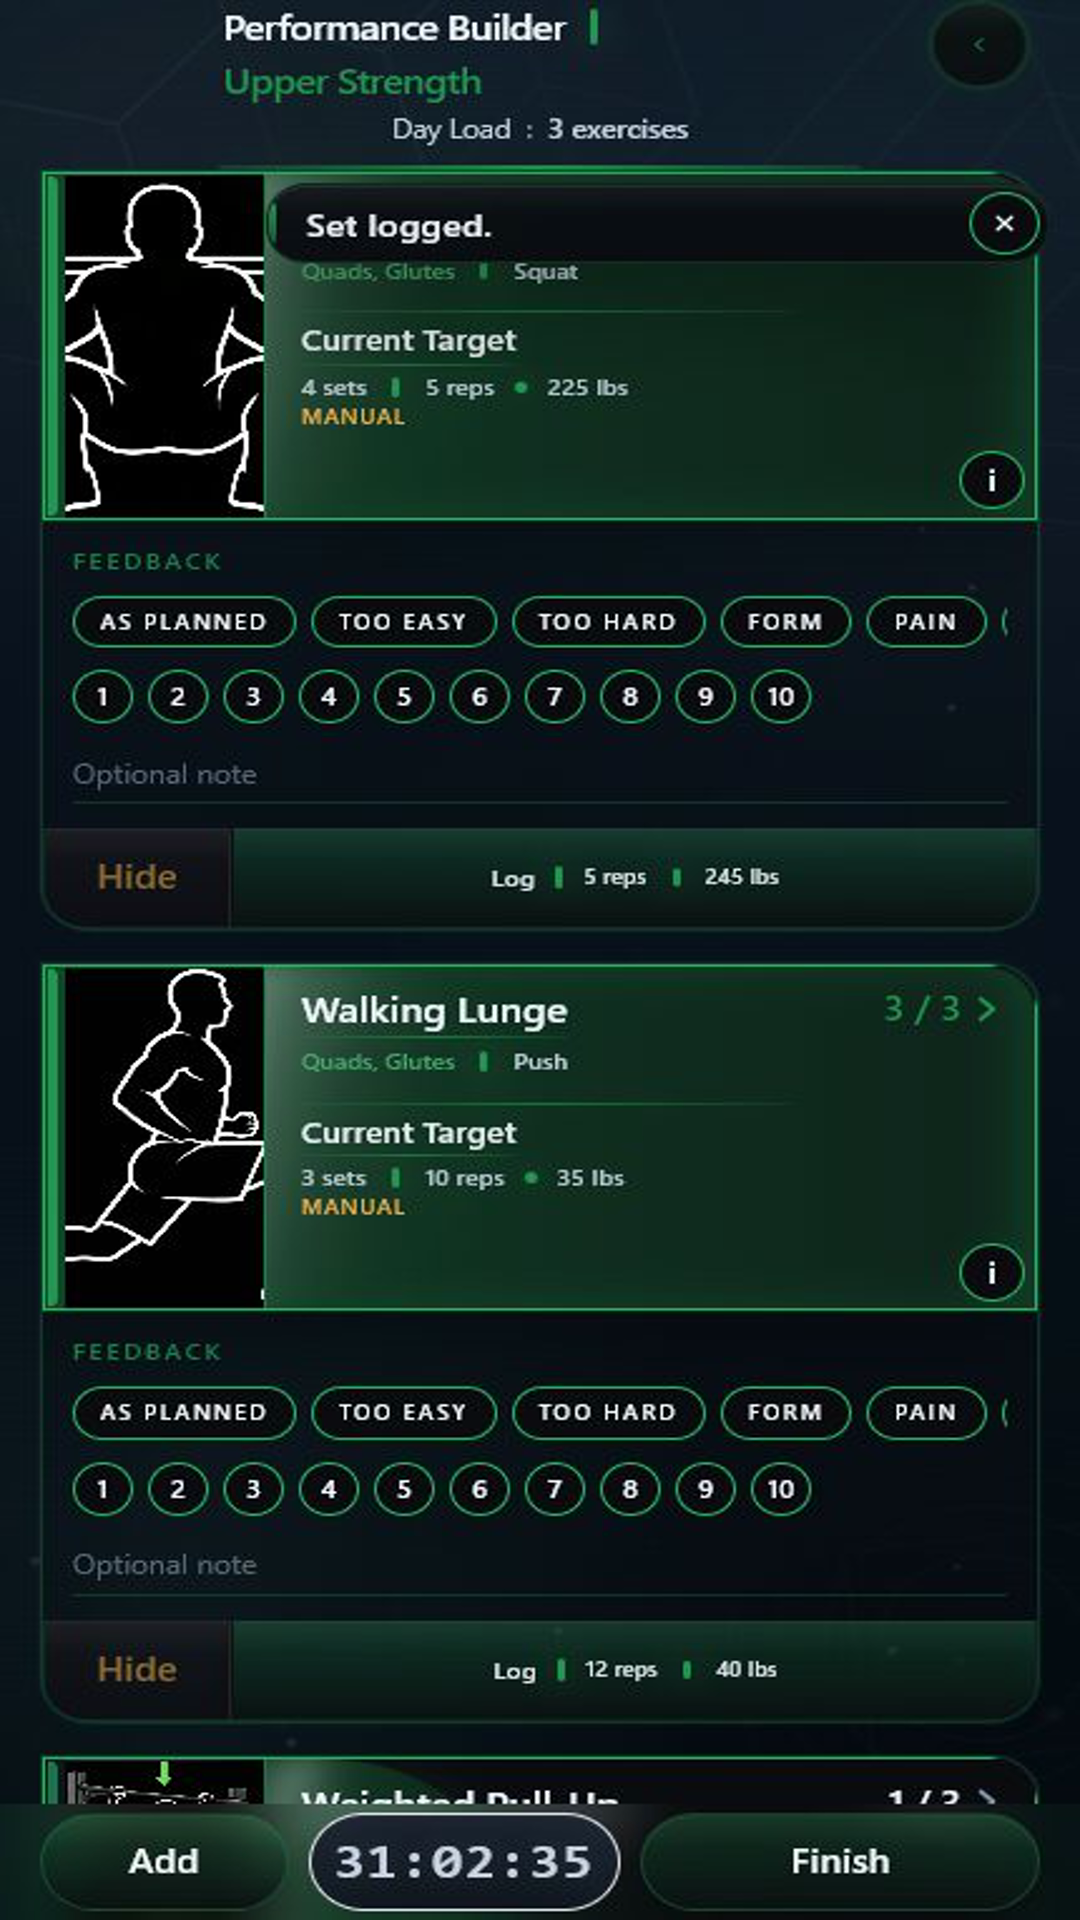
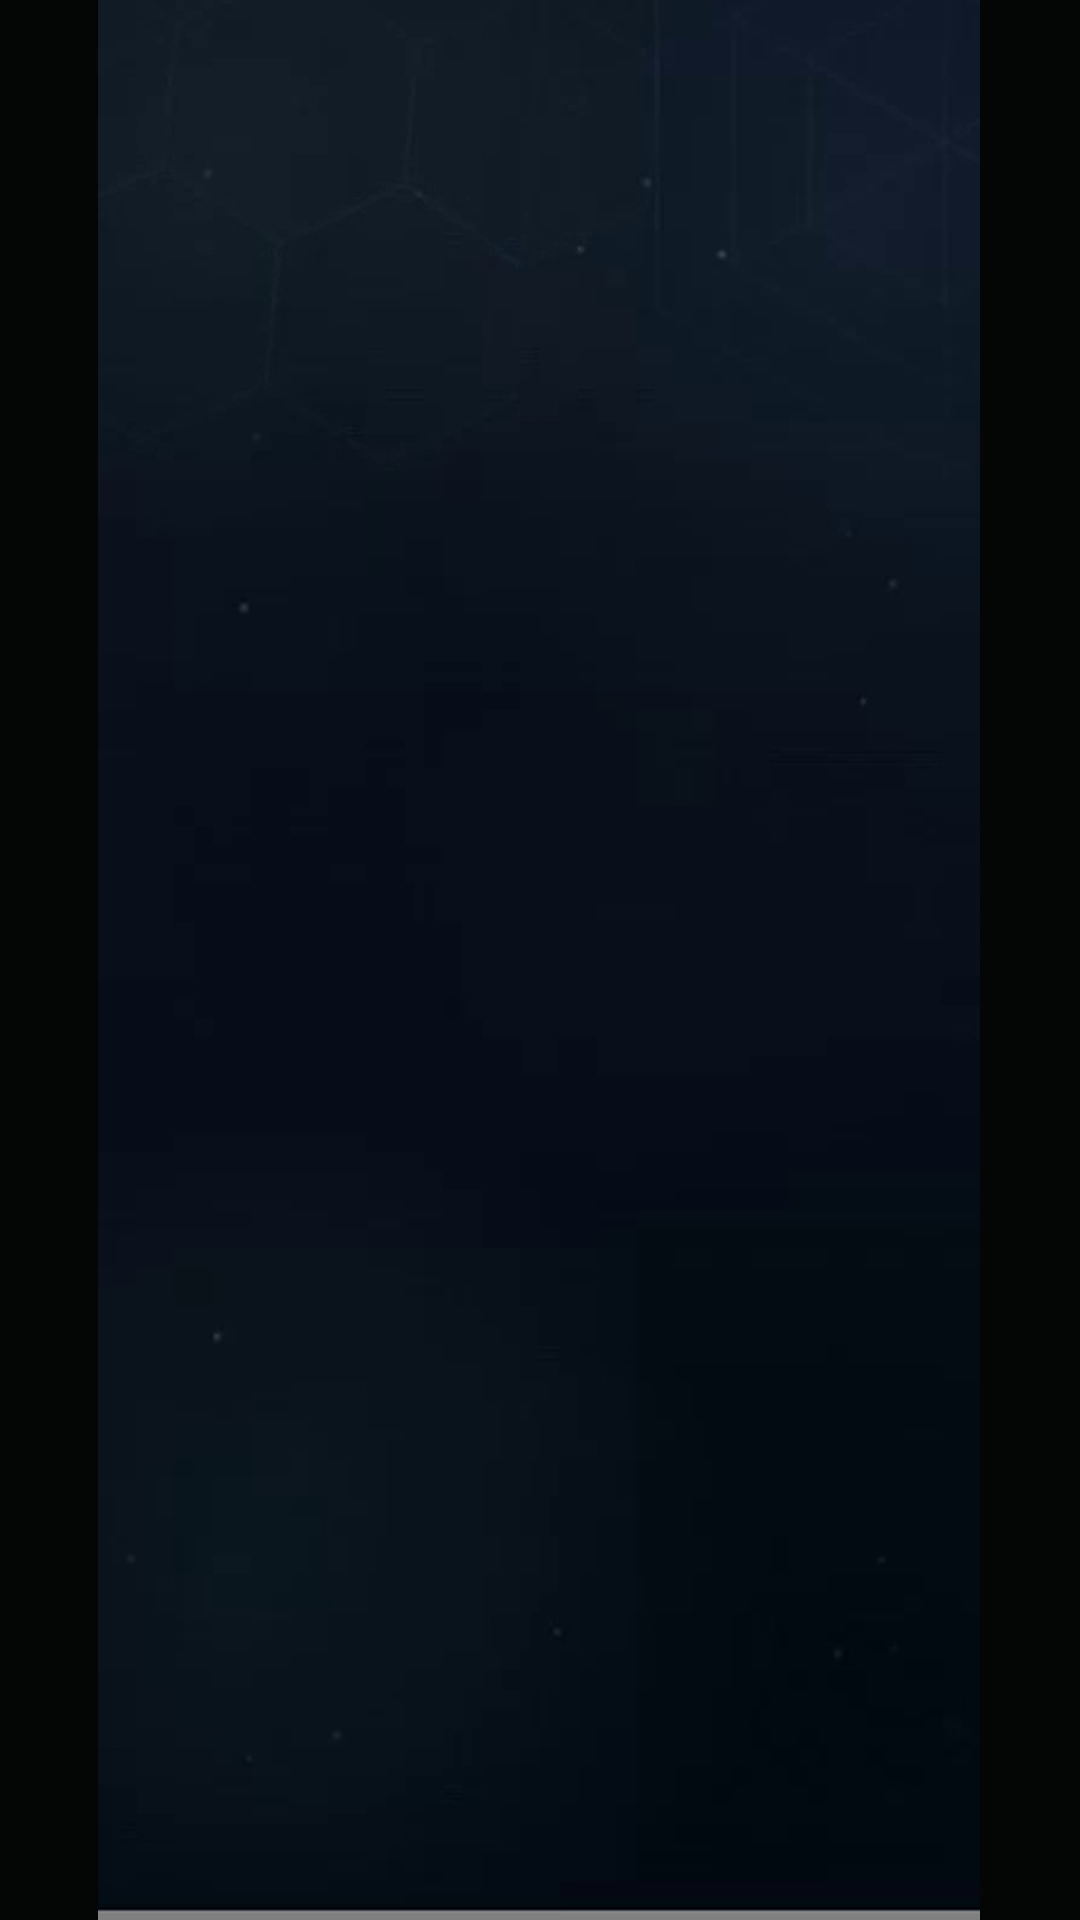
media: add interaction trailer masters

diff --git a/src/data/apps.ts b/src/data/apps.ts
@@ -71,20 +71,20 @@ export const apps: CatalogApp[] = [
       to: "#5C725D",
     },
     trailer: {
-      durationLabel: "0:28",
+      durationLabel: "0:20",
       description:
-        "A live production walkthrough of planning, resuming, logging, and reviewing a training session.",
+        "A branded live production walkthrough: navigate the plan, review history, resume a session, and open the next exercise.",
       captionsSrc: "/apps/fitness/trailer-captions.vtt",
       video: {
         src: "/apps/fitness/trailer.mp4",
[2 lines of base64/hex data omitted]
         source:
-          "July 18, 2026 live production capture using the dedicated sanitized Fitness showcase account",
+          "July 19, 2026 live production walkthrough using the dedicated sanitized Fitness QA account",
       },
       poster: {
         src: "/apps/fitness/trailer-poster.png",
[1 lines of base64/hex data omitted]
-        source: "July 18, 2026 live production capture poster derivative",
[1 lines of base64/hex data omitted]
+        source: "July 19, 2026 live production walkthrough poster derivative",
       },
     },
   },
@@ -119,20 +119,20 @@ export const apps: CatalogApp[] = [
       to: "#A4B5A3",
     },
     trailer: {
-      durationLabel: "0:35",
+      durationLabel: "0:14",
       description:
-        "Live production footage moves from an ambient watch run into active play, pause, and resume.",
+        "A branded live production walkthrough: enter the maze, move through a run, pause, and return to play.",
       captionsSrc: "/apps/mazer/trailer-captions.vtt",
       video: {
         src: "/apps/mazer/trailer.mp4",
[2 lines of base64/hex data omitted]
         source:
-          "Socials OS MAZER-PRODUCTION-WATCH-R2 plus MAZER-PRODUCTION-PLAY-R3 live production capture on July 18, 2026",
+          "July 19, 2026 live production guest walkthrough with visible keyboard and cursor interaction",
       },
       poster: {
         src: "/apps/mazer/trailer-poster.png",
[1 lines of base64/hex data omitted]
-        source: "Poster frame extracted from the live Mazer production trailer at 00:18.200",
[1 lines of base64/hex data omitted]
+        source: "July 19, 2026 live Mazer production walkthrough poster derivative",
       },
     },
   },

diff --git a/src/app/globals.css b/src/app/globals.css
@@ -2454,13 +2454,6 @@ a.discovery-link:hover {
     border-radius: 23px;
   }
 
-  .app-screenshot-list {
-    grid-auto-columns: minmax(15rem, 82vw);
-  }
-
-  .app-screenshot img {
-    height: min(60vh, 34rem);
-  }
 }
 
 @media (prefers-reduced-motion: reduce) {

diff --git a/docs/receipts/2026-07-19-live-interaction-trailer-remake.md b/docs/receipts/2026-07-19-live-interaction-trailer-remake.md
@@ -1,0 +1,46 @@
+# Live interaction trailer remake receipt
+
+## Purpose
+
+Replace the catalog trailer masters with short, vertically framed production walkthroughs that
+show real navigation and visible input rather than static screen presentation. Every master opens
+with a Fawxzzy brand card and ends with a clear app call-to-action.
+
+## Released assets
+
+| App | Master | Duration | Video SHA-256 | Poster SHA-256 |
+| --- | --- | ---: | --- | --- |
[2 lines of base64/hex data omitted]
+
+Both masters are 1080-by-1920 H.264/yuv420p MP4 at 30 fps with a matching WebVTT track and a
+poster frame extracted from the trailer itself. Catalog routes use these trailers as the only
+preview medium; no static screenshot rail remains in the public catalog.
+
+## Capture truth
+
+- Fitness: current production at `https://fawxzzy-fitness-local.vercel.app`, using the dedicated
+  sanitized QA account. The capture visibly opens Routines, History, Today, resumes the existing
+  training session, then opens the next exercise. It does not log, save, discard, or edit any
+  workout data.
+- Mazer: current production at `https://fawxzzy-mazer.vercel.app`, in a fresh non-persistent guest
+  context. The capture visibly enters a run, moves through the maze, pauses, and resumes.
+- The pointer/tap indicator is included in the recorded browser surface. Raw capture, temporary
+  authenticated state, and render intermediates remain ignored local artifacts outside this repo.
+
+## Storage and rollback
+
+- The obsolete unreferenced screenshot asset directories are removed from the public catalog
+  bundle. Historical Git revisions and prior Vercel deployments remain the rollback/provenance
+  record; no product-origin storage, Fitness/Mazer source repository, account data, or provider
+  configuration was changed.
+- The Fawxzzy banner and icon already present in this branch remain the site identity assets. This
+  receipt does not authorize any social-profile change.
+
+## Verification contract
+
+1. Confirm both MP4 masters and captions are referenced from centralized `src/data/apps.ts`.
+2. Run the repository verification suite and validate visible trailer playback on the exact merged
+   production `/apps` and app-detail routes.
+3. Verify the public catalog contains no static screenshot-gallery UI or obsolete screenshot
+   preview assets after deployment.